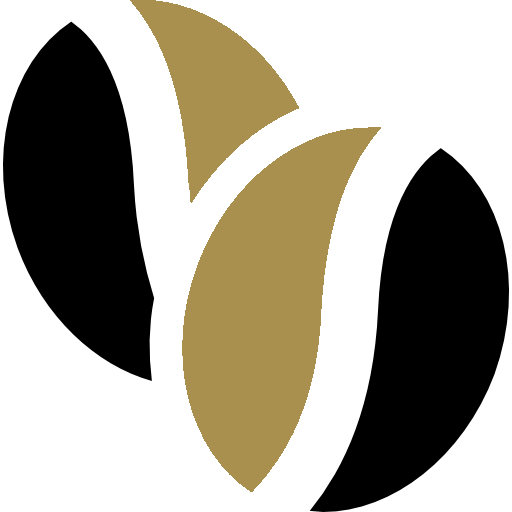
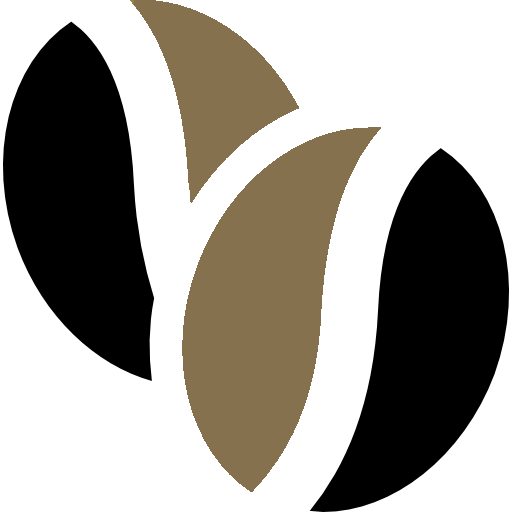
cambios colores

Changed region(s): [[0.3438, 0.25, 0.75, 0.9688], [0.25, 0.0, 0.5938, 0.4062]]

diff --git a/styles/landing.css b/styles/landing.css
@@ -28,7 +28,6 @@
     align-items: center;
     opacity: 0;
     animation: myAnim 2s ease 0s 1 normal forwards;
-    filter: contrast(10%);
   }
 
   & h1 {
@@ -37,7 +36,7 @@
     font-weight: 700;
     font-size: clamp(2rem, -1.077rem + 12.308vw, 6.5rem);
     text-align: center;
-    color: #a9904e;
+    color: #85714e;
     opacity: 0;
     text-shadow: 14px 14px 14px 22px rgba(0, 0, 0, 0.952);
     animation: titulo 2s ease 0s 1 normal forwards;
@@ -424,7 +423,7 @@
     }
 
     & input {
-      background-color: #a9904e;
+      background-color: #85714e;
       filter:contrast(96%);
       box-shadow: rgba(100, 100, 111, 0.2) 0px 7px 29px 0px;
       padding: 1rem 2rem;

diff --git a/index.html b/index.html
@@ -173,7 +173,7 @@
 
         <div class="suscribe__container">
           <figure class="img__logo">
-            <img src="/imagenes/Cafe/Screenshot_20240505-09580.jpg" class="img__suscribe" alt="">
+            <img src="/imagenes/Cafe/Screenshot_20240505-095800_Chrome.jpg" class="img__suscribe" alt="">
           </figure>
 
           <div>
